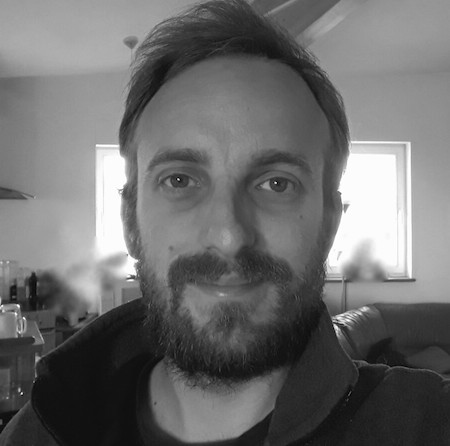
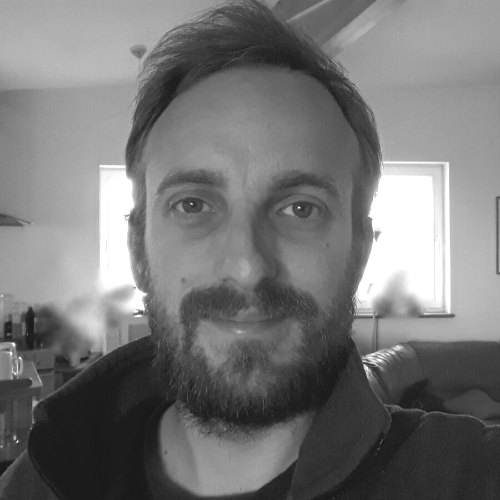
Photo

diff --git a/assets/sass/main.scss b/assets/sass/main.scss
@@ -26,11 +26,11 @@ header {
     }
 
     figure {
-        width: 120px;
-        height: 120px;
+        width: 132px;
+        height: 132px;
         overflow: hidden;
         position: relative;
-        border-radius: 60px;
+        border-radius: 75px;
 
         // border: $mainColor 3px solid;
         img {

diff --git a/assets/css/style.css b/assets/css/style.css
@@ -700,11 +700,11 @@ header h1 {
     margin-top: 9px; }
 
 header figure {
-  width: 120px;
-  height: 120px;
+  width: 132px;
+  height: 132px;
   overflow: hidden;
   position: relative;
-  border-radius: 60px; }
+  border-radius: 75px; }
   header figure img {
     display: block; }
 
